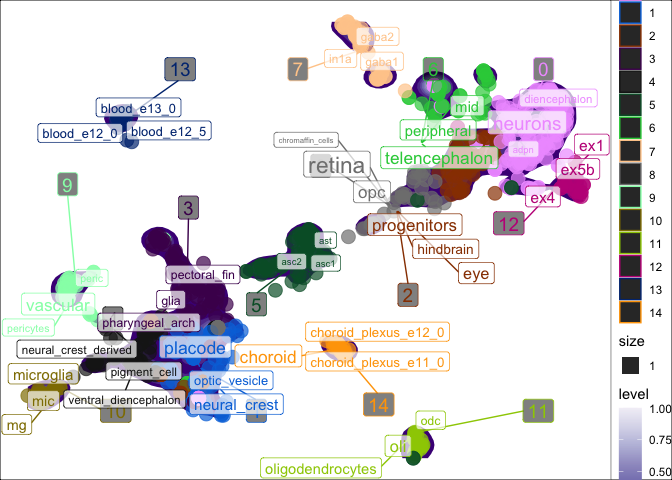
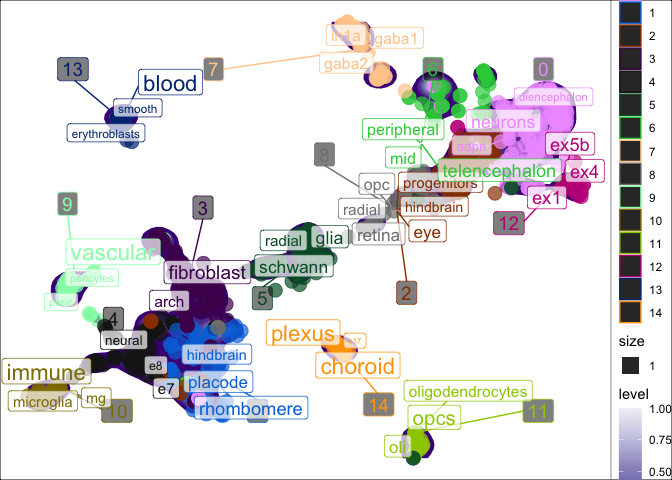
Fix regex parsing. Rebuild site

diff --git a/docs/articles/tf-idf.html b/docs/articles/tf-idf.html
@@ -85,7 +85,7 @@ Author: <i>Brian M. Schilder</i>
 </h5></h4>
             
             <h4 class="date"><h5>
-Most recent update: <i>Jun-23-2021</i>
+Most recent update: <i>Jun-24-2021</i>
 </h5></h4>
       
       <small class="dont-index">Source: <a href="https://github.com/bschilder/scNLP/blob/master/vignettes/tf-idf.Rmd"><code>vignettes/tf-idf.Rmd</code></a></small>
@@ -166,20 +166,20 @@ Most recent update: <i>Jun-23-2021</i>
 <pre><code>## Warning: The default method for RunUMAP has changed from calling Python UMAP via reticulate to the R-native UWOT using the cosine metric
 ## To use Python UMAP via reticulate, set umap.method to 'umap-learn' and metric to 'correlation'
 ## This message will be shown once per session</code></pre>
-<pre><code>## 13:57:20 UMAP embedding parameters a = 0.9922 b = 1.112</code></pre>
-<pre><code>## 13:57:20 Read 801 rows and found 50 numeric columns</code></pre>
-<pre><code>## 13:57:20 Using Annoy for neighbor search, n_neighbors = 30</code></pre>
-<pre><code>## 13:57:20 Building Annoy index with metric = cosine, n_trees = 50</code></pre>
+<pre><code>## 15:39:35 UMAP embedding parameters a = 0.9922 b = 1.112</code></pre>
+<pre><code>## 15:39:35 Read 801 rows and found 50 numeric columns</code></pre>
+<pre><code>## 15:39:35 Using Annoy for neighbor search, n_neighbors = 30</code></pre>
+<pre><code>## 15:39:35 Building Annoy index with metric = cosine, n_trees = 50</code></pre>
 <pre><code>## 0%   10   20   30   40   50   60   70   80   90   100%</code></pre>
 <pre><code>## [----|----|----|----|----|----|----|----|----|----|</code></pre>
 <pre><code>## **************************************************|
-## 13:57:20 Writing NN index file to temp file /var/folders/zq/h7mtybc533b1qzkys_ttgpth0000gn/T//RtmpdME2tc/file9ee2161c0324
-## 13:57:20 Searching Annoy index using 10 threads, search_k = 3000
-## 13:57:20 Annoy recall = 100%
-## 13:57:20 Commencing smooth kNN distance calibration using 10 threads
-## 13:57:20 Initializing from normalized Laplacian + noise
-## 13:57:20 Commencing optimization for 500 epochs, with 31560 positive edges
-## 13:57:21 Optimization finished
+## 15:39:35 Writing NN index file to temp file /var/folders/zq/h7mtybc533b1qzkys_ttgpth0000gn/T//RtmpMeSUNt/file225e75670fb2
+## 15:39:35 Searching Annoy index using 10 threads, search_k = 3000
+## 15:39:35 Annoy recall = 100%
+## 15:39:35 Commencing smooth kNN distance calibration using 10 threads
+## 15:39:35 Initializing from normalized Laplacian + noise
+## 15:39:36 Commencing optimization for 500 epochs, with 31560 positive edges
+## 15:39:37 Optimization finished
 ## Computing nearest neighbor graph
 ## Computing SNN</code></pre>
 <pre><code>## Warning: The following arguments are not used: reduction</code></pre>
@@ -401,7 +401,7 @@ Most recent update: <i>Jun-23-2021</i>
 ##  [17] cluster_2.1.2               ROCR_1.0-11                
 ##  [19] globals_0.14.0              matrixStats_0.59.0         
 ##  [21] pkgdown_1.6.1               spatstat.sparse_2.0-0      
-##  [23] colorspace_2.0-1            ggrepel_0.9.1              
+##  [23] colorspace_2.0-2            ggrepel_0.9.1              
 ##  [25] textshaping_0.3.5           xfun_0.24                  
 ##  [27] dplyr_1.0.7                 RCurl_1.98-1.3             
 ##  [29] crayon_1.4.1                jsonlite_1.7.2             
@@ -438,7 +438,7 @@ Most recent update: <i>Jun-23-2021</i>
 ##  [91] fitdistrplus_1.1-5          purrr_0.3.4                
 ##  [93] RANN_2.6.1                  rootSolve_1.8.2.1          
 ##  [95] pbapply_1.4-3               nlme_3.1-152               
-##  [97] mime_0.10                   tokenizers_0.2.1           
+##  [97] mime_0.11                   tokenizers_0.2.1           
 ##  [99] compiler_4.1.0              rstudioapi_0.13            
 ## [101] plotly_4.9.4.1              png_0.1-7                  
 ## [103] e1071_1.7-7                 spatstat.utils_2.2-0       

diff --git a/README.md b/README.md
@@ -4,7 +4,7 @@ scNLP
 Author: <i>Brian M. Schilder</i>
 </h5>
 <h5>
-Most recent update: <i>Jun-21-2021</i>
+Most recent update: <i>Jun-24-2021</i>
 </h5>
 
 ## Tools for applying natural language processing (NLP) techniques to single-cell (sc) omics data.
@@ -28,6 +28,13 @@ our “documents” are the clusters. The goals is to find words that are
 enriched in each cluster relative to all the other clusters. This can be
 thought of as an NLP equivalent of finding gene markers for each
 cluster.
+
+Another use case is to identify whether certain metadata attributes
+(e.g. dataset, species, brain region) are over-represented in some
+clusters relative to others This is a quantitative way to assess
+whether, for example, two or more datasets have successfully been
+integrated (i.e. are well-“mixed”), or whether some clusters are more
+representative of a particular anatomical region.
 
 # [Documentation website](https://neurogenomics.github.io/scNLP/)
 
@@ -79,26 +86,28 @@ head(pseudo_seurat@meta.data)
     ## human.DRONC_human.exCA3   225.1575          675               0               0
     ## human.DRONC_human.exDG    237.8823          678               0               0
     ##                             UMAP_1      UMAP_2             enriched_words
-    ## human.DRONC_human.ASC1  -0.4796632  0.17629431            asc1; asc2; ast
-    ## human.DRONC_human.ASC2  -0.6386602 -0.05231967            asc1; asc2; ast
+    ## human.DRONC_human.ASC1  -0.4796632  0.17629431      glia; schwann; radial
+    ## human.DRONC_human.ASC2  -0.6386602 -0.05231967      glia; schwann; radial
     ## human.DRONC_human.END   -7.7066403 -1.84134831 vascular; peric; pericytes
-    ## human.DRONC_human.exCA1  6.2326443  1.51104526            lpn; adpn; ex6a
-    ## human.DRONC_human.exCA3  6.0303471  1.47096417            lpn; adpn; ex6a
-    ## human.DRONC_human.exDG   5.9316036  1.49563257            lpn; adpn; ex6a
-    ##                                                                           tf_idf
-    ## human.DRONC_human.ASC1                                        0.0917983119017698
-    ## human.DRONC_human.ASC2                                        0.0917983119017698
-    ## human.DRONC_human.END                        0.154992540041713; 0.10415577696547
-    ## human.DRONC_human.exCA1 0.0644773857405288; 0.06396517525531; 0.0429849238270192
-    ## human.DRONC_human.exCA3 0.0644773857405288; 0.06396517525531; 0.0429849238270192
-    ## human.DRONC_human.exDG  0.0644773857405288; 0.06396517525531; 0.0429849238270192
+    ## human.DRONC_human.exCA1  6.2326443  1.51104526          lpn; adpn; neuron
+    ## human.DRONC_human.exCA3  6.0303471  1.47096417          lpn; adpn; neuron
+    ## human.DRONC_human.exDG   5.9316036  1.49563257          lpn; adpn; neuron
+    ##                                                                             tf_idf
+    ## human.DRONC_human.ASC1     0.198360552120631; 0.181900967132288; 0.111766521696813
+    ## human.DRONC_human.ASC2     0.198360552120631; 0.181900967132288; 0.111766521696813
+    ## human.DRONC_human.END                         0.528096815017439; 0.042313284392222
+    ## human.DRONC_human.exCA1 0.0527542246967963; 0.0523351433907082; 0.0428030761818744
+    ## human.DRONC_human.exCA3 0.0527542246967963; 0.0523351433907082; 0.0428030761818744
+    ## human.DRONC_human.exDG  0.0527542246967963; 0.0523351433907082; 0.0428030761818744
 
 ## td-idf scatter plot
 
 You can also plot the results in reduced dimensional space (e.g. UMAP).
-`plot_tfidf()` will produce a list with three items. - `data`: The
-processed data used to create the plot. - `tfidf_df`: The full
-per-cluster TF-IDF enrichment results. - `plot`: The `ggplot`.
+`plot_tfidf()` will produce a list with three items.
+
+-   `data`: The processed data used to create the plot.
+-   `tfidf_df`: The full per-cluster TF-IDF enrichment results.
+-   `plot`: The `ggplot`.
 
 ### `Seurat` input
 
@@ -147,47 +156,22 @@ utils::sessionInfo()
     ## [1] ggplot2_3.3.4      tidytext_0.3.1     SeuratObject_4.0.2 scNLP_0.1.0       
     ## 
     ## loaded via a namespace (and not attached):
-    ##  [1] MatrixGenerics_1.4.0        Biobase_2.52.0             
-    ##  [3] maps_3.3.0                  assertthat_0.2.1           
-    ##  [5] expm_0.999-6                highr_0.9                  
-    ##  [7] gld_2.6.2                   lmom_2.8                   
-    ##  [9] stats4_4.1.0                GenomeInfoDbData_1.2.6     
-    ## [11] ggrepel_0.9.1               yaml_2.2.1                 
-    ## [13] pillar_1.6.1                lattice_0.20-44            
-    ## [15] glue_1.4.2                  digest_0.6.27              
-    ## [17] GenomicRanges_1.44.0        RColorBrewer_1.1-2         
-    ## [19] XVector_0.32.0              colorspace_2.0-1           
-    ## [21] htmltools_0.5.1.1           Matrix_1.3-4               
-    ## [23] pkgconfig_2.0.3             zlibbioc_1.38.0            
-    ## [25] purrr_0.3.4                 mvtnorm_1.1-2              
-    ## [27] scales_1.1.1                rootSolve_1.8.2.1          
-    ## [29] tibble_3.1.2                proxy_0.4-26               
-    ## [31] generics_0.1.0              farver_2.1.0               
-    ## [33] IRanges_2.26.0              ellipsis_0.3.2             
-    ## [35] withr_2.4.2                 SummarizedExperiment_1.22.0
-    ## [37] BiocGenerics_0.38.0         magrittr_2.0.1             
-    ## [39] crayon_1.4.1                evaluate_0.14              
-    ## [41] tokenizers_0.2.1            janeaustenr_0.1.5          
-    ## [43] fansi_0.5.0                 MASS_7.3-54                
-    ## [45] SnowballC_0.7.0             class_7.3-19               
-    ## [47] tools_4.1.0                 data.table_1.14.0          
-    ## [49] lifecycle_1.0.0             matrixStats_0.59.0         
-    ## [51] stringr_1.4.0               Exact_2.1                  
-    ## [53] S4Vectors_0.30.0            munsell_0.5.0              
-    ## [55] DelayedArray_0.18.0         isoband_0.2.4              
-    ## [57] compiler_4.1.0              e1071_1.7-7                
-    ## [59] GenomeInfoDb_1.28.0         rlang_0.4.11               
-    ## [61] grid_4.1.0                  RCurl_1.98-1.3             
-    ## [63] dichromat_2.0-0             rstudioapi_0.13            
-    ## [65] labeling_0.4.2              bitops_1.0-7               
-    ## [67] rmarkdown_2.9               boot_1.3-28                
-    ## [69] DescTools_0.99.42           gtable_0.3.0               
-    ## [71] DBI_1.1.1                   R6_2.5.0                   
-    ## [73] knitr_1.33                  dplyr_1.0.6                
-    ## [75] utf8_1.2.1                  pals_1.7                   
-    ## [77] stringi_1.6.2               parallel_4.1.0             
-    ## [79] Rcpp_1.0.6                  vctrs_0.3.8                
-    ## [81] mapproj_1.2.7               tidyselect_1.1.1           
-    ## [83] xfun_0.24
+    ##  [1] ggrepel_0.9.1      Rcpp_1.0.6         mvtnorm_1.1-2      lattice_0.20-44   
+    ##  [5] class_7.3-19       assertthat_0.2.1   digest_0.6.27      utf8_1.2.1        
+    ##  [9] R6_2.5.0           evaluate_0.14      rootSolve_1.8.2.1  e1071_1.7-7       
+    ## [13] highr_0.9          pillar_1.6.1       rlang_0.4.11       Exact_2.1         
+    ## [17] rstudioapi_0.13    data.table_1.14.0  Matrix_1.3-4       rmarkdown_2.9     
+    ## [21] labeling_0.4.2     stringr_1.4.0      munsell_0.5.0      proxy_0.4-26      
+    ## [25] compiler_4.1.0     janeaustenr_0.1.5  xfun_0.24          pkgconfig_2.0.3   
+    ## [29] DescTools_0.99.42  htmltools_0.5.1.1  tidyselect_1.1.1   tibble_3.1.2      
+    ## [33] lmom_2.8           expm_0.999-6       fansi_0.5.0        crayon_1.4.1      
+    ## [37] dplyr_1.0.7        withr_2.4.2        MASS_7.3-54        SnowballC_0.7.0   
+    ## [41] grid_4.1.0         gtable_0.3.0       lifecycle_1.0.0    DBI_1.1.1         
+    ## [45] magrittr_2.0.1     scales_1.1.1       tokenizers_0.2.1   pals_1.7          
+    ## [49] gld_2.6.2          stringi_1.6.2      farver_2.1.0       mapproj_1.2.7     
+    ## [53] ellipsis_0.3.2     generics_0.1.0     vctrs_0.3.8        boot_1.3-28       
+    ## [57] RColorBrewer_1.1-2 tools_4.1.0        dichromat_2.0-0    glue_1.4.2        
+    ## [61] purrr_0.3.4        maps_3.3.0         yaml_2.2.1         colorspace_2.0-2  
+    ## [65] isoband_0.2.4      knitr_1.33
 
 </details>
